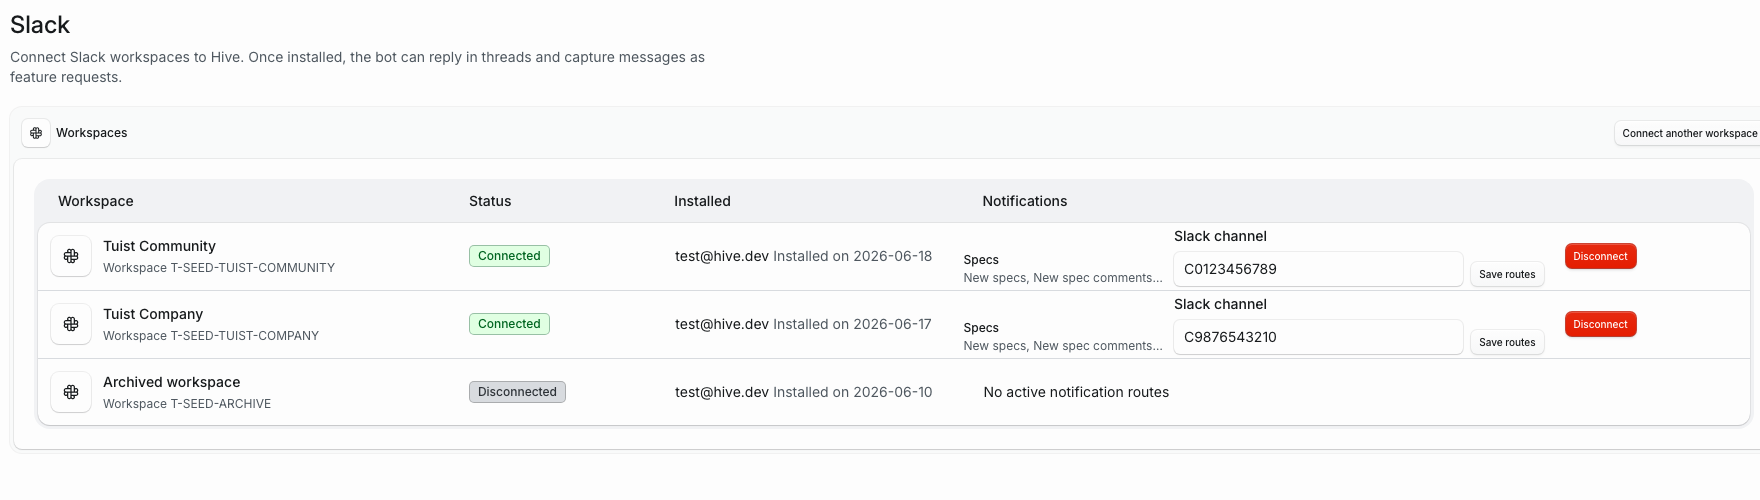
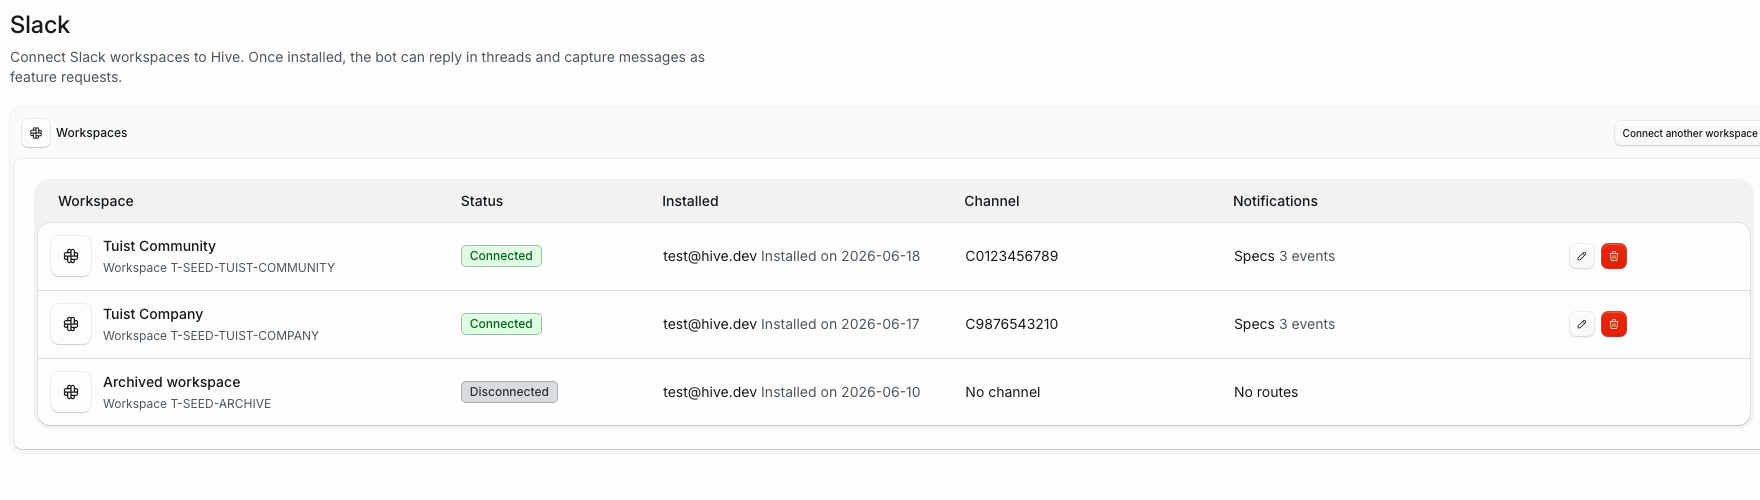
fix(web): standardize Slack table actions

diff --git a/assets/css/routes/ops.css b/assets/css/routes/ops.css
@@ -39,7 +39,7 @@
   }
 
   & #slack-workspaces-table table {
-    min-width: 1080px;
+    min-width: 1120px;
     table-layout: fixed;
   }
 
@@ -56,26 +56,28 @@
   }
 
   & #slack-workspaces-table th:nth-child(4) {
-    width: 34%;
+    width: 16%;
   }
 
   & #slack-workspaces-table th:nth-child(5) {
+    width: 20%;
+  }
+
+  & #slack-workspaces-table th:nth-child(6) {
     width: 12%;
   }
 
-  & [data-part="notification-routes-cell"] {
+  & [data-part="notification-route-fields"] {
     display: flex;
-    align-items: flex-end;
-    gap: var(--noora-spacing-4);
-    min-width: 0;
+    flex-direction: column;
+    gap: var(--noora-spacing-6);
   }
 
-  & [data-part="notification-route"] {
+  & [data-part="notification-route-field"] {
     display: grid;
-    flex: 1;
-    grid-template-columns: minmax(120px, 0.7fr) minmax(180px, 1fr);
-    align-items: end;
-    gap: var(--noora-spacing-4);
+    grid-template-columns: minmax(0, 1fr) minmax(220px, 0.8fr);
+    align-items: start;
+    gap: var(--noora-spacing-6);
     min-width: 0;
   }
 
@@ -87,23 +89,13 @@
   }
 
   & [data-part="notification-route-copy"] span {
-    overflow: hidden;
     color: var(--noora-surface-label-primary);
     font: var(--noora-font-weight-medium) var(--noora-font-body-small);
-    text-overflow: ellipsis;
-    white-space: nowrap;
   }
 
   & [data-part="notification-route-copy"] small {
-    overflow: hidden;
     color: var(--noora-surface-label-secondary);
     font: var(--noora-font-weight-regular) var(--noora-font-body-small);
-    text-overflow: ellipsis;
-    white-space: nowrap;
-  }
-
-  & [data-part="notification-route"] .noora-text-input {
-    min-width: 0;
   }
 
   & [data-part="workspace-actions"] {
@@ -116,22 +108,8 @@
       align-items: stretch;
     }
 
-    & [data-part="notification-routes-cell"] {
-      align-items: stretch;
-    }
-
-    & [data-part="notification-route"] {
+    & [data-part="notification-route-field"] {
       grid-template-columns: 1fr;
-    }
-  }
-
-  @media (max-width: 720px) {
-    & [data-part="notification-routes-cell"] {
-      flex-direction: column;
-    }
-
-    & [data-part="notification-routes-cell"] .noora-button {
-      width: 100%;
     }
   }
 }
